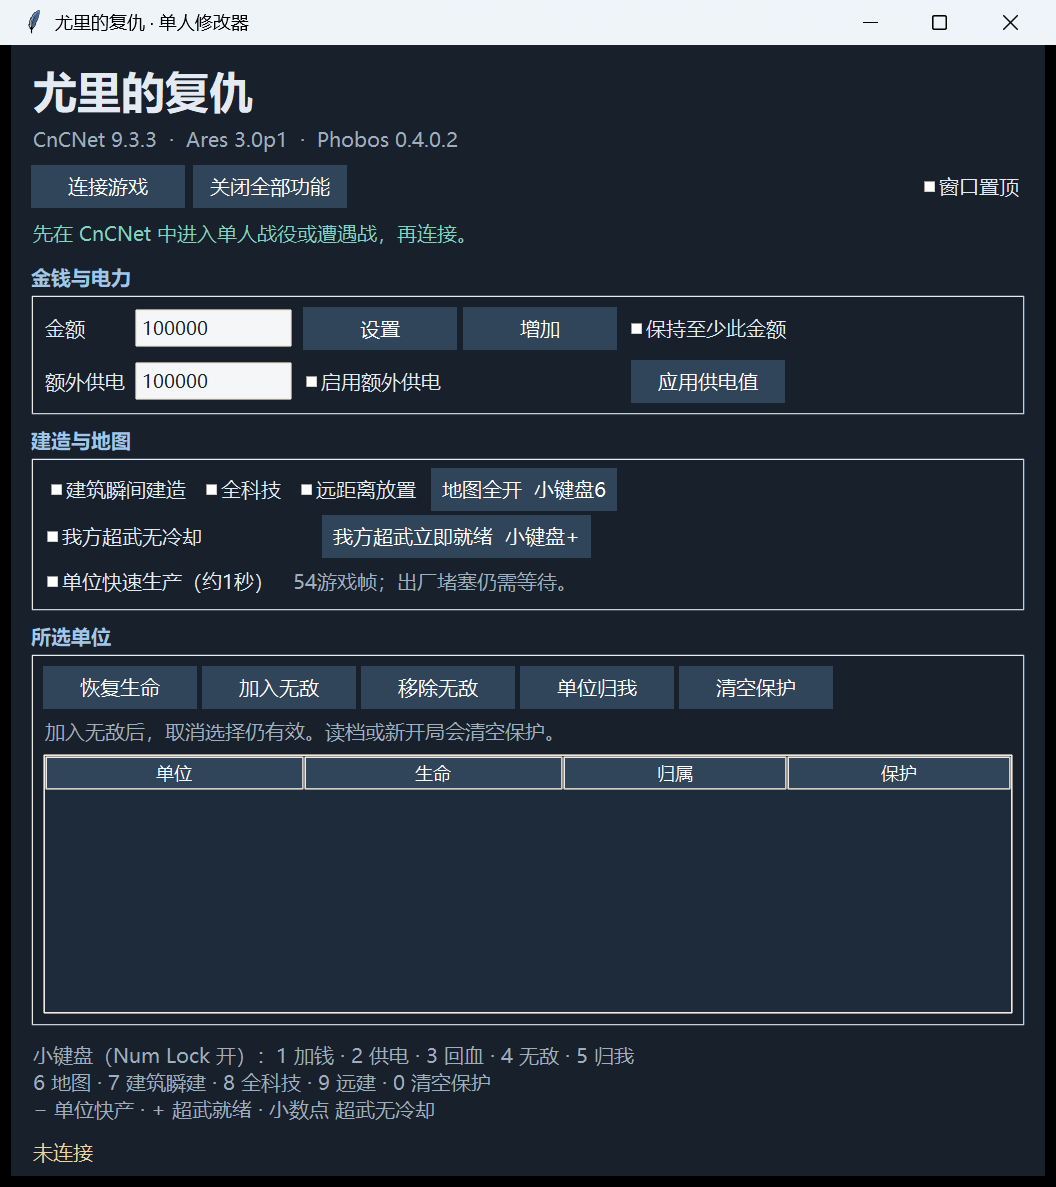
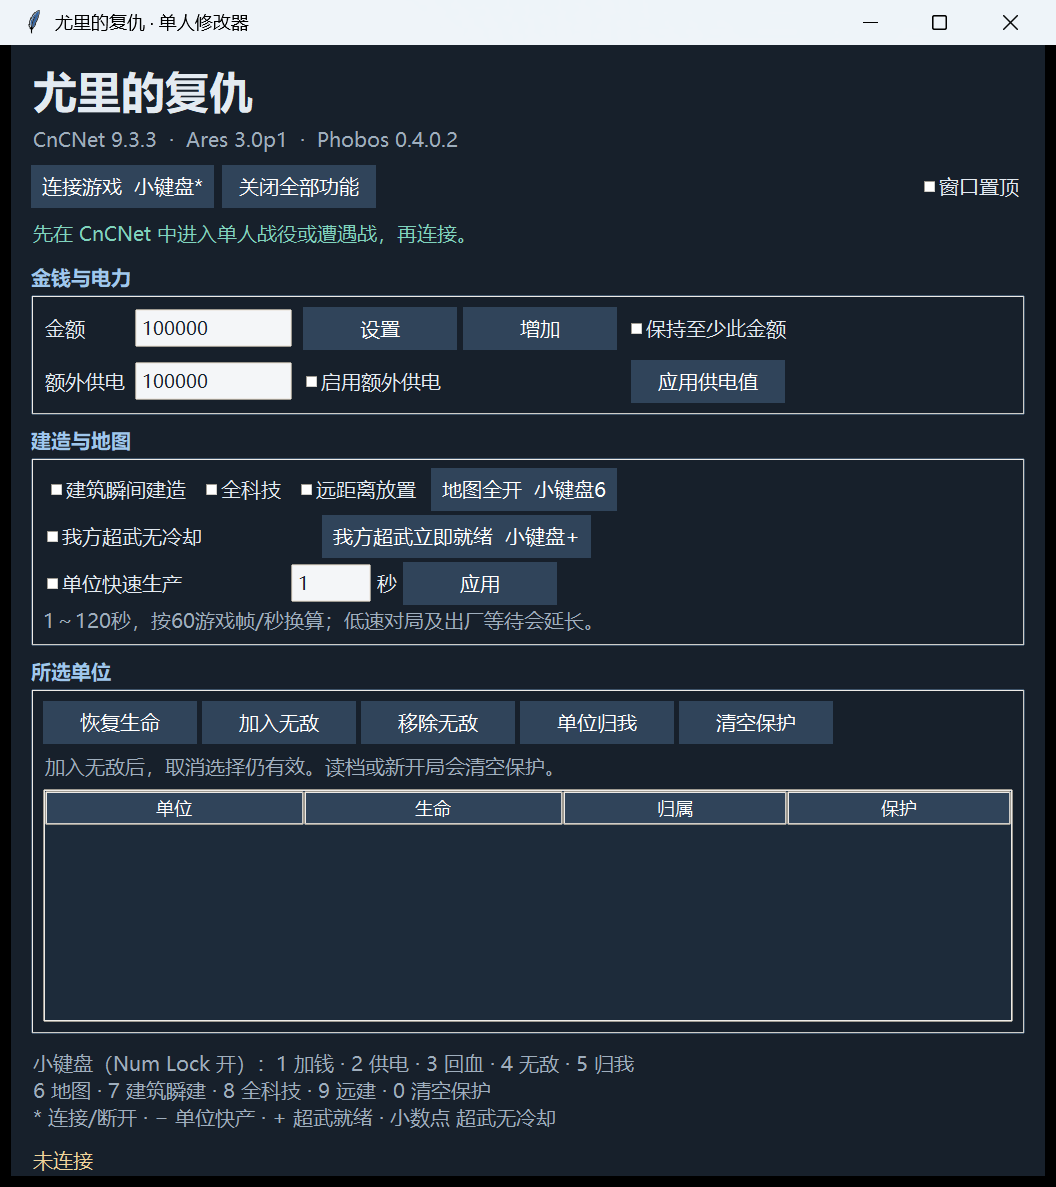
Add files via upload

Changed region(s): [[0.0312, 0.4676, 0.9688, 0.7169], [0.0312, 0.8416, 0.9688, 0.9975], [0.0312, 0.1247, 0.375, 0.187]]

diff --git a/app.py b/app.py
@@ -1,4 +1,6 @@
 """Chinese desktop UI. No game files are modified."""
+import os,math
+from winmem import processes
 import ctypes as C,ctypes.wintypes as W,threading,queue,time,json,sys,traceback
 from pathlib import Path
 import tkinter as tk
@@ -7,7 +9,7 @@ from engine import Trainer,FEATURES
 
 class App:
  def __init__(self,root):
-  self.root=root;self.t=Trainer();self.jobs=queue.Queue();self.events=queue.Queue();self.connected=False;self.pid=0;self.closing=False;self.polling=False
+  self.root=root;self.t=Trainer();self.jobs=queue.Queue();self.events=queue.Queue();self.connected=False;self.pid=0;self.closing=False;self.polling=False;self.connecting=False
   self.user=C.WinDLL('user32');self.user.GetForegroundWindow.restype=W.HWND
   self.user.GetWindowThreadProcessId.argtypes=[W.HWND,C.POINTER(W.DWORD)]
   self.user.SetForegroundWindow.argtypes=[W.HWND]
@@ -32,7 +34,7 @@ class App:
   ttk.Label(top,text='尤里的复仇',font=('Microsoft YaHei UI',22,'bold')).pack(anchor='w')
   ttk.Label(top,text='CnCNet 9.3.3  ·  Ares 3.0p1  ·  Phobos 0.4.0.2',foreground='#9faebd').pack(anchor='w',pady=(2,10))
   bar=ttk.Frame(top);bar.pack(fill='x')
-  self.connect_btn=ttk.Button(bar,text='连接游戏',command=self.connect);self.connect_btn.pack(side='left')
+  self.connect_btn=ttk.Button(bar,text='连接游戏  小键盘*',command=self.connect);self.connect_btn.pack(side='left')
   ttk.Button(bar,text='关闭全部功能',command=self.disable_all).pack(side='left',padx=8)
   self.topmost=tk.BooleanVar(value=False);ttk.Checkbutton(bar,text='窗口置顶',variable=self.topmost,command=lambda:root.attributes('-topmost',self.topmost.get())).pack(side='right')
   root.attributes('-topmost',False)
@@ -57,8 +59,13 @@ class App:
   ttk.Button(build,text='地图全开  小键盘6',command=lambda:self.unit(10,'地图全开')).grid(row=0,column=3,padx=5)
   ttk.Checkbutton(build,text='我方超武无冷却',variable=self.vars['super'],command=lambda:self.toggle('super')).grid(row=1,column=0,columnspan=2,sticky='w')
   ttk.Button(build,text='我方超武立即就绪  小键盘+',command=lambda:self.unit(11,'我方超武立即就绪')).grid(row=1,column=2,columnspan=2,pady=4)
-  ttk.Checkbutton(build,text='单位快速生产（约1秒）',variable=self.vars['units'],command=lambda:self.toggle('units')).grid(row=2,column=0,columnspan=2,sticky='w')
-  ttk.Label(build,text='54游戏帧；出厂堵塞仍需等待。',foreground='#9faebd').grid(row=2,column=2,columnspan=2,sticky='w')
+  ttk.Checkbutton(build,text='单位快速生产',variable=self.vars['units'],command=lambda:self.toggle('units')).grid(row=2,column=0,columnspan=2,sticky='w')
+  self.unit_seconds=tk.StringVar(value='1')
+  timing=ttk.Frame(build);timing.grid(row=2,column=2,columnspan=2,sticky='w')
+  ttk.Entry(timing,textvariable=self.unit_seconds,width=6).pack(side='left')
+  ttk.Label(timing,text='秒').pack(side='left',padx=4)
+  ttk.Button(timing,text='应用',command=lambda:self.toggle('units')).pack(side='left')
+  ttk.Label(build,text='1～120秒，按60游戏帧/秒换算；低速对局及出厂等待会延长。',foreground='#9faebd').grid(row=3,column=0,columnspan=4,sticky='w')
   units=ttk.LabelFrame(body,text='所选单位',padding=10);units.pack(fill='both',expand=True,pady=6)
   buttons=ttk.Frame(units);buttons.pack(fill='x')
   for text,cmd in [('恢复生命',3),('加入无敌',4),('移除无敌',5),('单位归我',6),('清空保护',7)]:
@@ -68,7 +75,7 @@ class App:
   for key,text,width in [('type','单位',130),('hp','生命',130),('owner','归属',95),('protect','保护',95)]:
    self.tree.heading(key,text=text);self.tree.column(key,width=width,anchor='center')
   self.tree.pack(fill='both',expand=True)
-  ttk.Label(body,text='小键盘（Num Lock 开）：1 加钱 · 2 供电 · 3 回血 · 4 无敌 · 5 归我\n6 地图 · 7 建筑瞬建 · 8 全科技 · 9 远建 · 0 清空保护\n− 单位快产 · + 超武就绪 · 小数点 超武无冷却',foreground='#9faebd').pack(anchor='w',pady=(8,4))
+  ttk.Label(body,text='小键盘（Num Lock 开）：1 加钱 · 2 供电 · 3 回血 · 4 无敌 · 5 归我\n6 地图 · 7 建筑瞬建 · 8 全科技 · 9 远建 · 0 清空保护\n* 连接/断开 · − 单位快产 · + 超武就绪 · 小数点 超武无冷却',foreground='#9faebd').pack(anchor='w',pady=(8,4))
   self.status=tk.StringVar(value='未连接');ttk.Label(root,textvariable=self.status,wraplength=round(625*scale),foreground='#f1d49a',padding=(20,8)).pack(fill='x')
   threading.Thread(target=self.worker,daemon=True).start();root.after(100,self.pump);root.after(600,self.poll)
  def worker(self):
@@ -82,6 +89,8 @@ class App:
   if not self.connected:self.status.set('请先连接已进入地图的游戏。');return
   self.status.set(name+'…');self.submit(name,fn)
  def connect(self):
+  if self.connecting or self.closing:return
+  self.connecting=True
   if self.connected:self.submit('disconnect',self.t.detach)
   else:self.status.set('正在核对游戏版本…');self.submit('connect',self.t.attach)
  def unit(self,cmd,name):self.action(name,lambda:self.t.command(cmd))
@@ -94,7 +103,10 @@ class App:
   try:
    if key=='money':value=int(self.money.get())
    if key=='power':value=int(self.power.get())
-  except ValueError:self.status.set('请输入整数。');return
+   if key=='units':
+    value=float(self.unit_seconds.get())
+    if not math.isfinite(value) or not 1<=value<=120:raise ValueError('range')
+  except ValueError:self.status.set('单位生产时间请输入 1～120 秒（可填小数）。' if key=='units' else '请输入整数。');return
   self.action('更新功能',lambda:self.t.feature(key,enabled,value))
  def disable_all(self):
   def off():
@@ -110,13 +122,14 @@ class App:
    name,ok,result=self.events.get()
    if name=='close':self.root.destroy();return
    if name=='snapshot':self.polling=False
+   if name in ('connect','disconnect'):self.connecting=False
    if not ok:
     self.status.set(result)
     if name in ('snapshot','connect'):
-     self.connected=False;self.pid=0;self.connect_btn.configure(text='连接游戏');self.submit('cleanup',self.t.detach)
+     self.connected=False;self.pid=0;self.connect_btn.configure(text='连接游戏  小键盘*');self.submit('cleanup',self.t.detach)
     continue
-   if name=='connect':self.connected=True;self.pid=result['pid'];self.connect_btn.configure(text='断开并恢复');self.status.set('已连接；功能默认关闭。')
-   if name=='disconnect':self.connected=False;self.pid=0;self.connect_btn.configure(text='连接游戏');self.status.set('已恢复补丁并断开。')
+   if name=='connect':self.connected=True;self.pid=result['pid'];self.connect_btn.configure(text='断开并恢复  小键盘*');self.status.set('已连接；功能默认关闭。')
+   if name=='disconnect':self.connected=False;self.pid=0;self.connect_btn.configure(text='连接游戏  小键盘*');self.status.set('已恢复补丁并断开。')
    if name in ('snapshot','connect'):
     s=result;self.stats.set(f"金钱 {s['money']:,}    电力 {s['power']:,} / {s['drain']:,}    已保护 {s['protected']} 个")
     for key,mask in FEATURES.items():self.vars[key].set(bool(s['flags']&mask))
@@ -127,13 +140,16 @@ class App:
   if not self.closing:self.root.after(80,self.pump)
  def hotkeys(self):
   # Edge-triggered polling never activates a window or installs global key hooks.
-  down={vk for vk in [*range(0x60,0x6A),0x6B,0x6D,0x6E] if self.user.GetAsyncKeyState(vk)&0x8000}
+  down={vk for vk in [*range(0x60,0x6A),0x6A,0x6B,0x6D,0x6E] if self.user.GetAsyncKeyState(vk)&0x8000}
   pressed=down-self.hot_down;self.hot_down=down
-  if not self.connected or not pressed:return
+  if not pressed:return
   fg=self.user.GetForegroundWindow();p=W.DWORD();self.user.GetWindowThreadProcessId(fg,C.byref(p))
-  # Do not trigger actions while entering amounts in the trainer or typing in other apps.
-  if p.value!=self.pid:return
   if any(self.user.GetAsyncKeyState(vk)&0x8000 for vk in (0x10,0x11,0x12)):return
+  if 0x6A in pressed:
+   allowed=p.value in (self.pid,os.getpid()) or any(pid==p.value and name.lower()=='gamemd-spawn.exe' for pid,name in processes())
+   if allowed:self.connect()
+   return
+  if not self.connected or self.connecting or p.value!=self.pid:return
   for vk in sorted(pressed):
    key=vk-0x60
    if key==1:self.change_money(True)

diff --git a/engine.py b/engine.py
@@ -1,5 +1,5 @@
 """Local single-player Yuri's Revenge trainer. All engine calls execute in its game thread."""
-import json,hashlib,struct,time
+import json,hashlib,struct,time,math
 from pathlib import Path
 from winmem import Mem,processes,modules
 from keystone import Ks,KS_ARCH_X86,KS_MODE_32
@@ -8,7 +8,7 @@ ROOT=Path(__file__).resolve().parent
 PLAYER=0xA83D4C; FRAME=0xA8ED84; MODE=0xA8B238; SELECT=0xA8ECB8
 FLAGS=0x08; CMD=0x0C; ARG=0x10; ACK=0x14; RESULT=0x18; COUNT=0x1C
 MONEY=0x20; POWER=0x24; HEART=0x28; LASTFRAME=0x2C; LASTPLAYER=0x30
-TECHCOUNT=0x34; BUSY=0x38; GENERATION=0x3C; ENABLED=0x40
+TECHCOUNT=0x34; BUSY=0x38; GENERATION=0x3C; ENABLED=0x40; UNITFRAMES=0x44
 PROTECTED=0x100; SNAPSHOT=0x1100; TECHS=0x1600; LIMIT=256
 FEATURES={'money':1,'power':2,'buildings':4,'tech':8,'placement':16,'super':32,'units':64}
 ALLOWED=set('''GAPOWR GAREFN GAPILE GAWEAP GADEPT GATECH GAYARD GAAIRC AMRADR GAWALL GAPILL NASAM ATESLA GTGCAN GASPYSAT GAGAP GAOREP GACSPH GAWEAT
@@ -83,6 +83,7 @@ class Trainer:
   data=bytearray(0x2000);struct.pack_into('<I',data,0,0x59525431)
   struct.pack_into('<I',data,MONEY,100000);struct.pack_into('<I',data,POWER,100000)
   struct.pack_into('<I',data,ENABLED,1)
+  struct.pack_into('<I',data,UNITFRAMES,60)
   struct.pack_into('<I',data,TECHCOUNT,len(self.allowed))
   for i,p in enumerate(self.allowed):struct.pack_into('<I',data,TECHS+i*4,p)
   m.write(b,data)
@@ -169,7 +170,22 @@ test dword ptr [{f}],64
 jz next_factory
 cmp dword ptr [ecx+0x24],54
 jge next_factory
-mov dword ptr [ecx+0x34],0
+push ebx
+mov eax,dword ptr [ecx+0x24]
+inc eax
+imul eax,dword ptr [{at(UNITFRAMES)}]
+xor edx,edx
+mov ebx,54
+div ebx
+push eax
+mov eax,dword ptr [ecx+0x24]
+imul eax,dword ptr [{at(UNITFRAMES)}]
+xor edx,edx
+div ebx
+pop edx
+sub edx,eax
+mov dword ptr [ecx+0x34],edx
+pop ebx
 jmp next_factory
 building_factory:
 test dword ptr [{f}],4
@@ -522,7 +538,11 @@ mov dword ptr [{at(LASTPLAYER)}],0;inc dword ptr [{at(GENERATION)}];sub esp,{sta
  def feature(self,name,on,value=None):
   self.validate_session();m=self.mem;b=self.base;flag=FEATURES[name]
   if value is not None:
-   if not 0<=value<=10000000:raise ValueError('数值范围为 0～10000000')
+   if name=='units':
+    seconds=float(value)
+    if not math.isfinite(seconds) or not 1<=seconds<=120:raise ValueError('单位生产时间范围为 1～120 秒')
+    m.put32(b+UNITFRAMES,round(seconds*60))
+   elif not 0<=value<=10000000:raise ValueError('数值范围为 0～10000000')
    if name in ('money','power'):m.put32(b+(MONEY if name=='money' else POWER),value)
   bits=m.u32(b+FLAGS);m.put32(b+FLAGS,bits|flag if on else bits&~flag)
   if name=='power':self.command(8)
